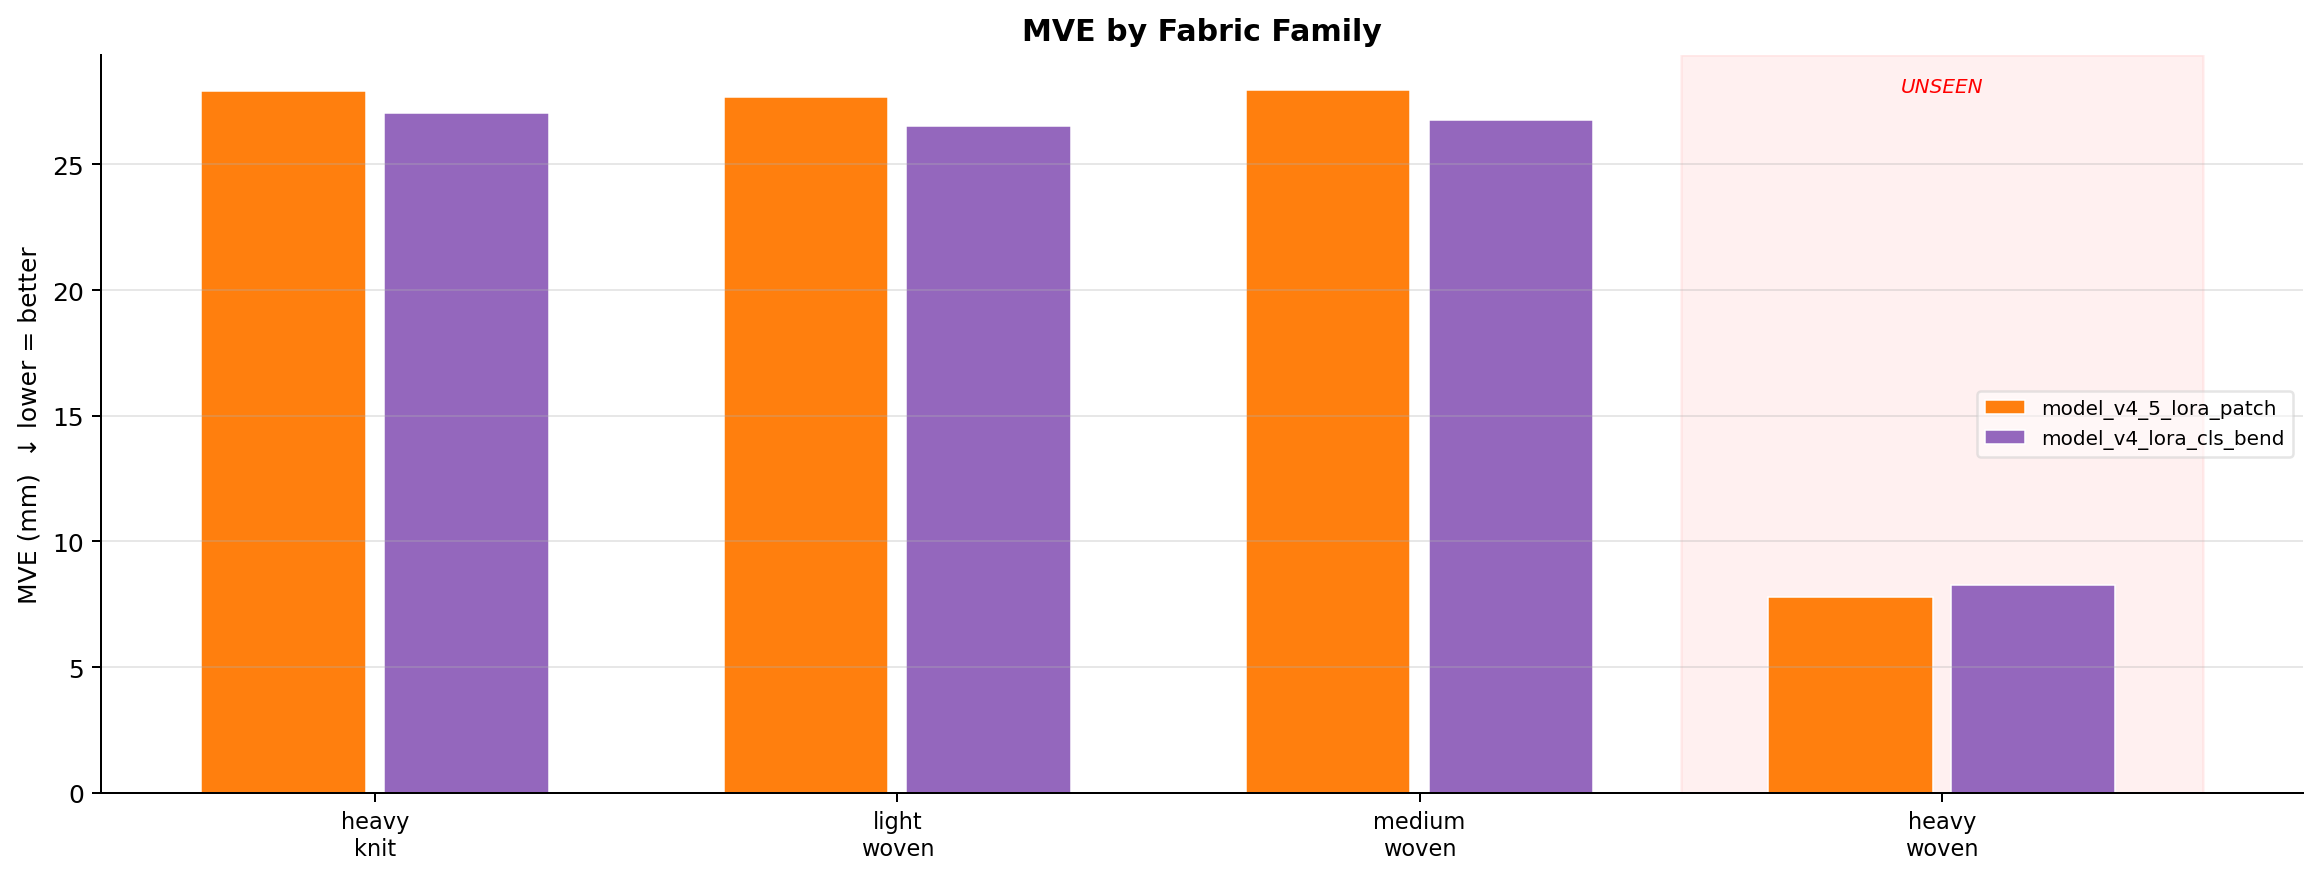
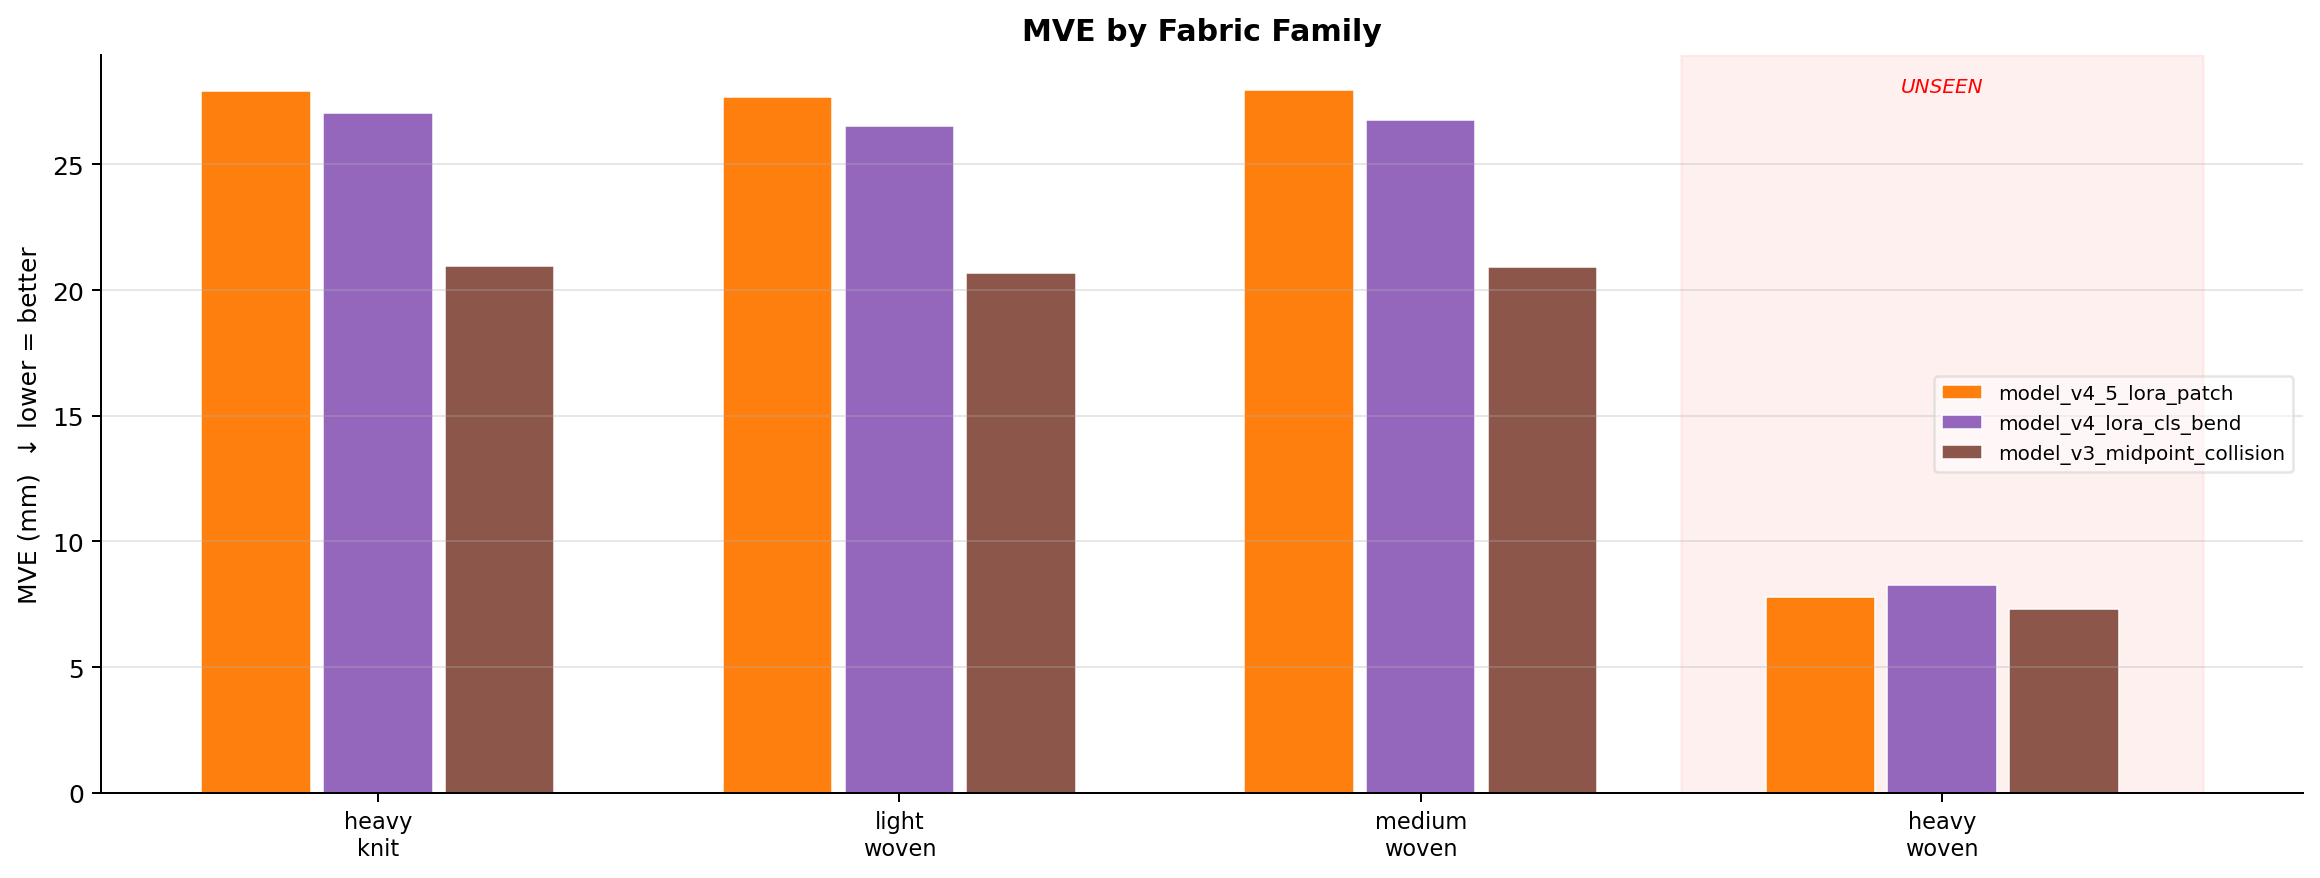
config changes, and comparison results

diff --git a/src/train_v3_2.py b/src/train_v3_2.py
@@ -1,5 +1,5 @@
 """
-train_v3.py — PATCHED (midpoint priors + active collision)
+train_v3_2.py — PATCHED (midpoint priors + active collision)
 
 Training loop for MasterDrapeModel (DINO + FiLM GNN).
 Supports normal consistency, bending energy, Laplacian, and collision losses.
@@ -58,7 +58,7 @@ torch.cuda.empty_cache()
 sys.path.insert(0, os.path.dirname(os.path.abspath(__file__)))
 
 from dataloader_v2 import GarmentDataset
-from models_v3 import (
+from models_v3_2 import (
     MasterDrapeModel, AutomaticLossWeighter,
     drape_loss, build_face_adjacency, compute_laplacian_loss,
 )
@@ -84,8 +84,8 @@ CONFIG = {
     'subset_size':     50 if DEBUG else None,
 
     # Training
-    'max_epochs':      2   if DEBUG else 100,
-    'early_stop_patience': 15,
+    'max_epochs':      2   if DEBUG else 500,
+    'early_stop_patience': 40,
     'grad_clip':       1.0,
 
     # Optimiser
@@ -93,9 +93,9 @@ CONFIG = {
     'weight_decay':    1e-4,
 
     # Scheduler
-    'lr_patience':     5,
+    'lr_patience':     12,
     'lr_factor':       0.5,
-    'lr_min':          1e-6,
+    'lr_min':          1e-7,
 
     # Model
     'embed_dim':       128,
@@ -116,11 +116,11 @@ CONFIG = {
     # + collision if enabled
     'prior_drape':     1.0,
     'prior_strain':    0.1,            # halved: asymmetric strain is ~3-4x larger
-    'prior_cls':       0.1,
+    'prior_cls':       0.05,
     'prior_normal':    2.25,           # midpoint between master_bend (0.5) and norm_8x (4.0)
     'prior_bending':   0.3,
     'prior_laplacian': 0.0,
-    'prior_collision': 1.0,            # NEW: first-pass value, re-tune after first run
+    'prior_collision': 1.5,            # NEW: first-pass value, re-tune after first run
 
     # If True,  the AutomaticLossWeighter's log_vars so the priors above
     # are the *final* effective weights, not just starting values. Use for

diff --git a/visualization/error_heatmap.py b/visualization/error_heatmap.py
@@ -71,7 +71,7 @@ def save_colored_obj(path, verts, colors, faces=None):
         for v, c in zip(verts, colors):
             f.write(f"v {v[0]:.4f} {v[1]:.4f} {v[2]:.4f} {c[0]:.4f} {c[1]:.4f} {c[2]:.4f}\n")
         if faces is not None:
-            for face in faces:
+            for  face in faces:
                 f.write(f"f {face[0] + 1} {face[1] + 1} {face[2] + 1}\n")
 
 

diff --git a/visualization/compare_results.py b/visualization/compare_results.py
@@ -105,7 +105,10 @@ MODELS_TO_COMPARE = [
     "model_v3_master_laplacian",
     "model_v3_norm_8x",
     "model_v4_5_lora_patch",
-    "model_v4_lora_cls_bend"
+    "model_v4_lora_cls_bend",
+    "model_v3_midpoint_collision",
+    "model_v3_5"
+
 ]
 
 # Consistent model colours across all plots

diff --git a/src/models_v3_2.py b/src/models_v3_2.py
@@ -1,5 +1,5 @@
 """
-models_v3.py (Final Master Architecture) — PATCHED
+models_v3_2.py (Final Master Architecture) — PATCHED
 
 MasterDrapeModel: DINOv2 (Frozen) + FiLM-Modulated MeshGraphNet + Physics Triad Loss
 
